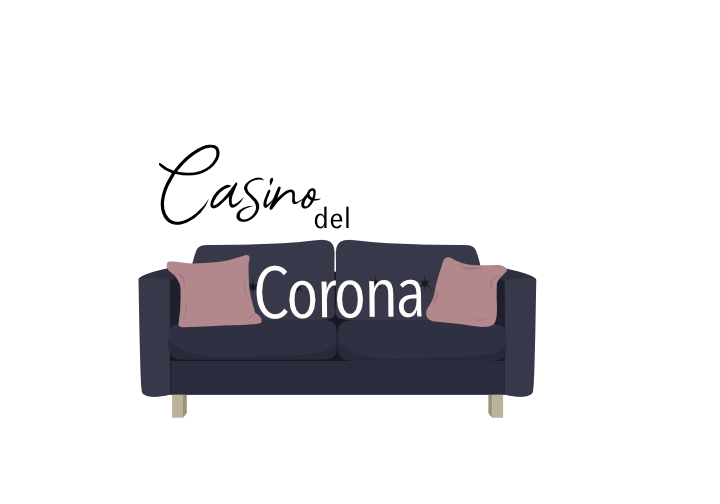
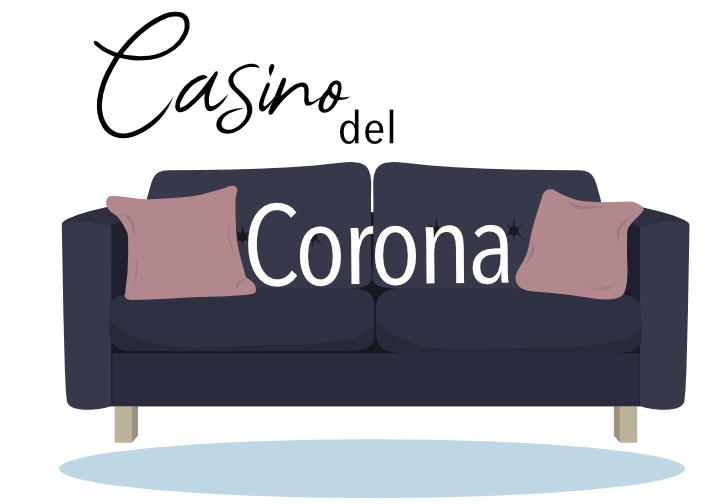
css for home page

diff --git a/index.html b/index.html
@@ -10,14 +10,21 @@
 </head>
 
 <body>
-<h1>Welcome to the Casino Game</h1>
-    <main>
-        <section>
-            
-            <img src="http://placekitten.com/g/200/300" alt="">
+    <header>
+        <h1>Welcome to Casino del Corona</h1>
+        <h3>because you're not going anywhere anyway...</h3>
+    </header>
 
-            <label>  <input id="username-input" type="text" value="">  </label>
+    <main>
+        <section id="image-section">
+        <img src="./assets/casino_corona.png" alt="">
+        </section>
+        <section id="main-section">
+                    
+            <div>
+            <label> Enter your name: <input id="username-input" type="text" value="">  </label>
             <button id='submit-button'> Submit </button>
+            </div>
 
         </section>
 

diff --git a/style.css b/style.css
@@ -1,0 +1,36 @@
+@import url('https://fonts.googleapis.com/css2?family=Noto+Sans+JP&family=Pacifico&display=swap');
+
+body {
+background: rgb(214, 226, 229);
+font-family: 'Noto Sans JP', sans-serif;
+}
+
+header {
+    margin: auto;
+    margin-top: 25px;
+    width: 55%;
+    text-align: center;
+    justify-content: center;
+    border: 2px black solid;
+    border-radius: 25px;
+    padding: 20px; 
+    height: 175px;
+    background: #b2888c;
+    box-shadow: gray 1px 2px 20px 10px;
+}
+h1 {
+    font-family: 'Pacifico', cursive;
+    font-size: 50px;
+}
+
+#main-section, div {
+    margin: auto;
+    margin-bottom: 100px;
+    width: 70%;
+    text-align: center;
+}
+
+#image-section {
+    margin: 30px auto;
+    text-align: center;
+ }
